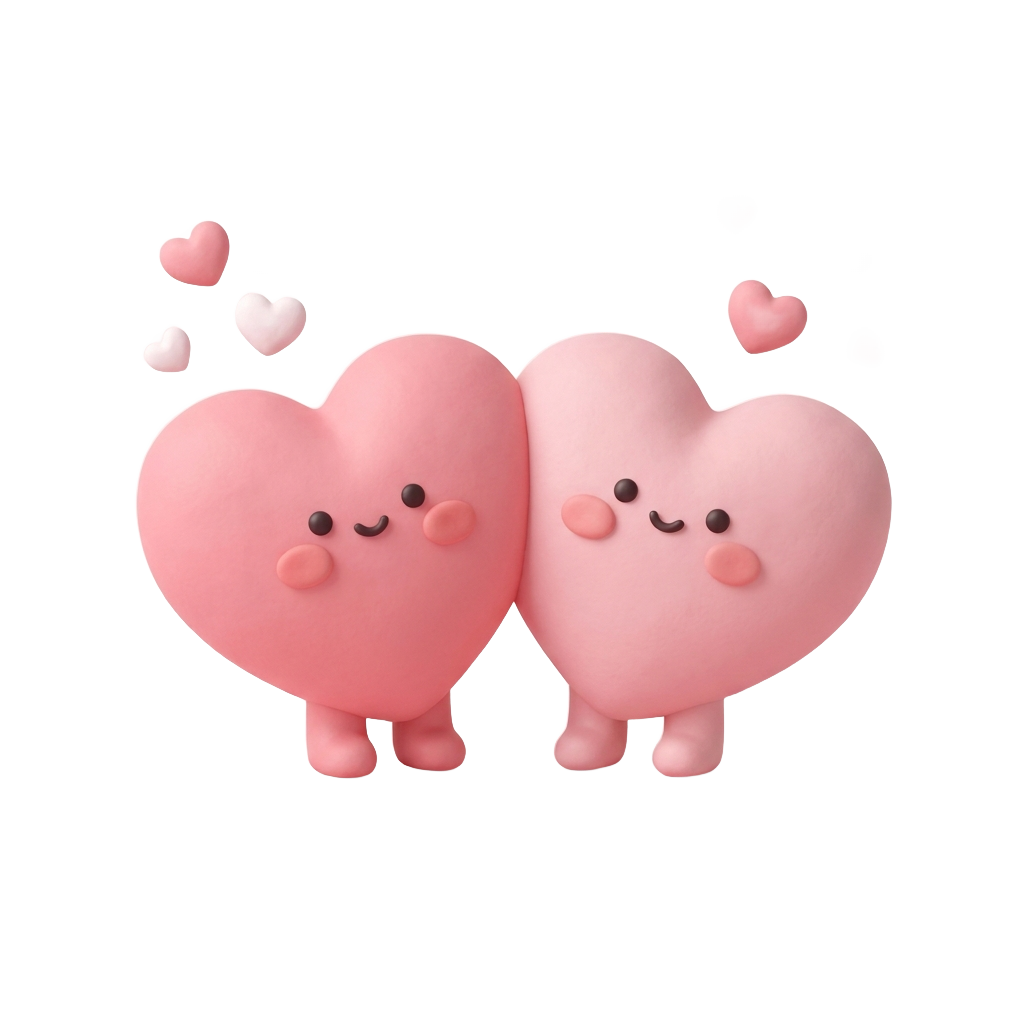
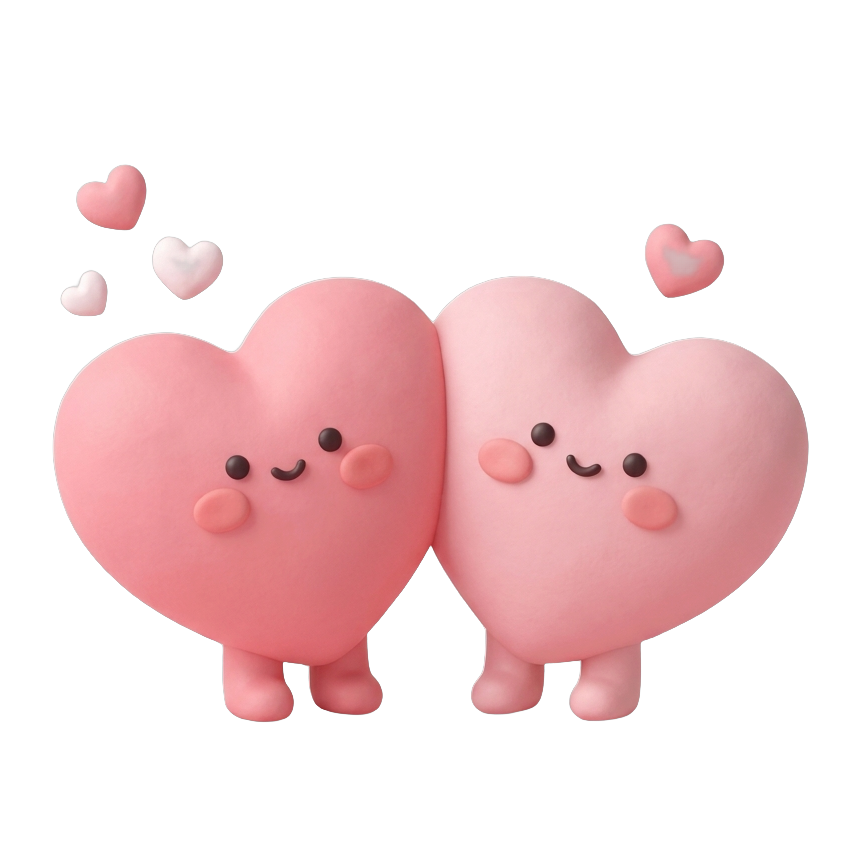
feat(onboarding): 하트 마스코트 확대 + 초대 카드 톤 정리
- mascot-heart PNG 3종 투명 여백 트림(캐릭터 88% 채움)으로 닉네임 등
  전 화면 마스코트 크기 정상화, 정사각 유지라 코드 변경 없음
- 초대 카드: 웜 크림→앱 표준 흰 SoftCard, 라벨 브라운→로즈로 통일해
  핑크 톤 페이지(#FFF9FC)와의 이질감 제거

diff --git a/__tests__/couple-connect-invite-card-tone.test.ts b/__tests__/couple-connect-invite-card-tone.test.ts
@@ -1,0 +1,26 @@
+import { readFileSync } from 'node:fs';
+import { join } from 'node:path';
+
+// 초대 카드가 앱 전체 핑크 톤(page bg #FFF9FC)에서 유일하게 웜 크림(#FFF3E0)이라 겉돌던 문제.
+// A안: 카드 배경을 앱 표준 흰색 SoftCard로 통일 + 라벨색을 크림 브라운→로즈로.
+// (초기에 함께 넣었던 발밑 접지 그림자는 사용자 요청으로 제거함.)
+function read(rel: string): string {
+  return readFileSync(join(process.cwd(), rel), 'utf8');
+}
+
+describe('couple-connect invite card tone (A안 흰 카드 + 접지 그림자)', () => {
+  const source = read('app/onboarding/couple-connect.tsx');
+
+  it('does not paint the invite card with warm cream', () => {
+    expect(source).not.toMatch(/inviteCard:\s*\{[^}]*backgroundColor:\s*C\.cream/);
+  });
+
+  it('uses a rose label color instead of cream brown', () => {
+    expect(source).not.toMatch(/inviteLabel:\s*\{[^}]*C\.creamFg/);
+    expect(source).toMatch(/inviteLabel:\s*\{[^}]*C\.pinkDeep/);
+  });
+
+  it('does not add a contact shadow element under the mascot', () => {
+    expect(source).not.toContain('mascotShadow');
+  });
+});

diff --git a/app/onboarding/couple-connect.tsx b/app/onboarding/couple-connect.tsx
@@ -587,11 +587,10 @@ const s = StyleSheet.create({
   section: { marginTop: 26 },
   inviteCard: {
     marginTop: 24,
-    backgroundColor: C.cream,
     padding: 20,
     alignItems: 'center',
   },
-  inviteLabel: { fontSize: 11, color: C.creamFg, fontWeight: '700', letterSpacing: 0.4 },
+  inviteLabel: { fontSize: 11, color: C.pinkDeep, fontWeight: '700', letterSpacing: 0.4 },
   codeText: { fontSize: 34, fontWeight: '800', color: C.pinkDeep, letterSpacing: 4, marginTop: 8 },
   inviteMascot: { marginVertical: 12 },
   createBtn: { marginTop: 4, width: '100%' },